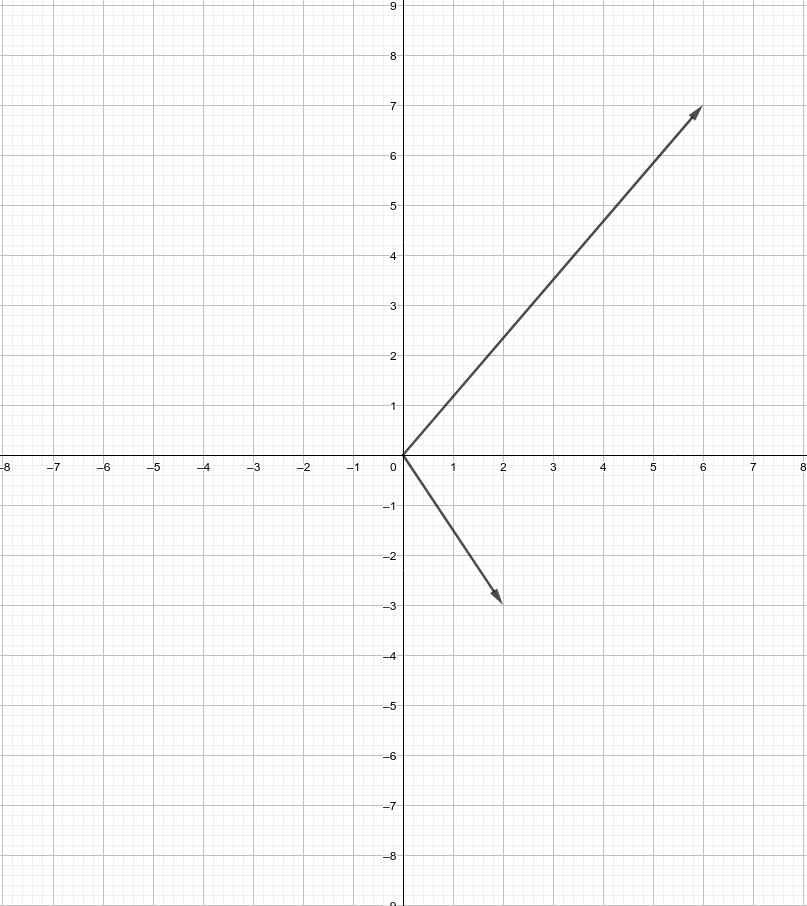
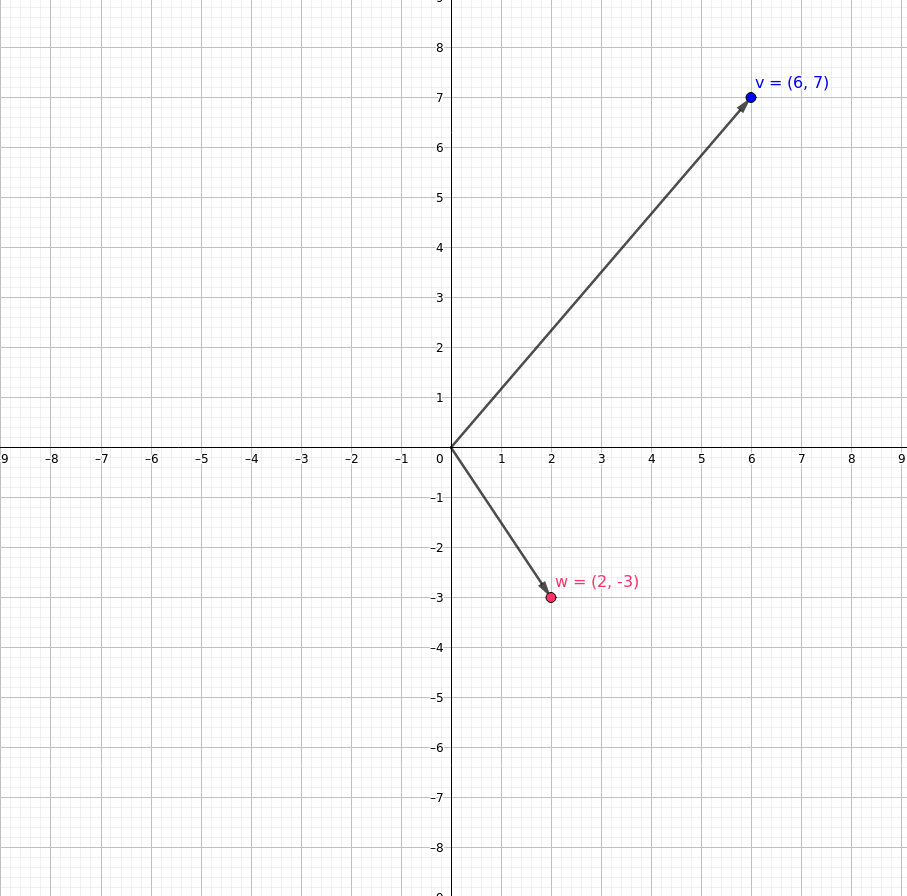
More lesson 1

diff --git a/linear_algebra_class/lesson1_vectors_in_rn/lesson1.tex b/linear_algebra_class/lesson1_vectors_in_rn/lesson1.tex
@@ -68,29 +68,9 @@ or 2-tuples, of real numbers.
 \item The $v_i$ are called the \emph{components} of $v$.
 \item Let $v = (3, -7, 4.1, 0)$.
 \item Then $v\in\R^4$.
-\item The first component of
-$v$ is 3. The fourth component of $v$ is 0.
+\item $v_1 = 3$, $v_2=-7$, $v_3=4.1$, $v_4=0$.
 \end{itemize}
 
-\end{frame}
-
-\begin{frame}{Cartesian-Products}
-
-\begin{itemize}
-\item If $A$ and $B$ are sets then $A\times B$ is called the
-\emph{Cartesian product} or \emph{cross product} of $A$ and $B$. It is
-defined as
-$$A\times B=\setof{(a, b)}{a\in A \text{ and } b\in B}$$
-\item Example: $A=\singleton{0,1}$, $B=\singleton{0, 1, 2}$, then
-what is $A\times B$?
-\item $A\times B = \singleton{(0,0), (0,1), (0,2), (1,0), (1,1), (1,2)}$.
-\item Note: If $A$ and $B$ are finite then $|A\times B| = |A| \cdot |B|$.
-\item Example: $\R\times \R = \R^2$.
-\item Convention: We identify $\R^n \times \R^m$ with $\R^{n+m}$.
-\item $\R^1\times\R^2 = \R^3$.
-\item $\R^3\times\R^3=$ ?
-\item $\R^3\times\R^3=\R^6$.
-\end{itemize}
 \end{frame}
 
 \beamerdefaultoverlayspecification{}
@@ -104,9 +84,9 @@ what is $A\times B$?
 \item<2-> We visualize $\R^2$ as the $x$- $y$- plane
 \item<3-> We visuzlize $\R^3$ as $x$- $y$- $z$- space
 \item<4-> Most people can't vizualize more than 3 dimensions so for $n>=4$
-we can vizualize $\R^2$ or $\R^3$ as approximations or
-analogs of $\R^n$.
-\item<5-> We should always also keep in mind $n$-tuples.
+we mostly think of $\R^n$ as consisting of $n$-tuples of real numbers.
+\item<5-> We can vizualize $\R^2$ or $\R^3$ as \emph{approximations} or
+\emph{analogs}.
 \end{itemize}
 
 \column[T]{5cm}
@@ -132,37 +112,13 @@ analogs of $\R^n$.
 \item<1-> Let $v = (6, 7) \in \R^2$
 \item<2-> We can think of $v$ as a 2-tuple of numbers.
 \item<3-> Or we can think of $v$ as a \emph{point}.
-\item<4-> Or we can think of $v$ is a \emph{vector}.
+\item<4-> Or we can think of $v$ as a \emph{vector}.
 \item<5-> All of these are different representations of the same thing, $v$.
 \end{itemize}
 
 \column[T]{5cm}
-\includegraphics<3>[scale=0.1]{point}
-\includegraphics<4->[scale=0.1]{vector}
-
-\end{columns}
-
-\end{frame}
-
-\begin{frame}{Different notions of vectors}
-
-\begin{columns}
-\column[T]{5cm}
-\begin{itemize}
-\item<1-> In physics a \emph{vector} is ``A quantity having a direction and a magnitude.''
-\item<2-> In some contexts vectors also have a \emph{point of application.}
-\item<3-> Let's refer to this as a \emph{physical vector}.
-\item<4-> A physical vector can be represented in $\R^2$ (or $\R^3$) as
-an arrow with base at some point and tip at some other point
-\end{itemize}
-
-\column[T]{5cm}
-\includegraphics<4->[scale=0.1]{physical-vector}
-
-\begin{itemize}
-\item<5-> That is \emph{not} the kind of vector we will consider in this
-class
-\end{itemize}
+\includegraphics<3>[scale=0.15]{point}
+\includegraphics<4->[scale=0.15]{vector}
 
 \end{columns}
 
@@ -173,16 +129,18 @@ class
 \begin{columns}
 \column[T]{5cm}
 \begin{itemize}
-\item<1-> In this class we define a \emph{vector in $\R^n$} to be
+\item<1-> We define a \emph{vector in $\R^n$} to be
 the same thing as an element of $\R^n$.
 \item<2-> We may chose to visualize it as a point
-\item<3-> Or we may chose to visualize it as an arrow.
-\item<4-> As an arrow we always consider its base to be at the origin.
+\item<3-> Or we may chose to visualize it as an arrow with its base
+at the origin.
+\item<4-> No difference between a vector and its endpoint.
+\item<5-> Or we may chose to think of it as an $n$-tuple of real numbers.
 \end{itemize}
 
 \column[T]{5cm}
-\includegraphics<2>[scale=0.1]{point}
-\includegraphics<3->[scale=0.1]{vector}
+\includegraphics<2>[scale=0.15]{point}
+\includegraphics<3->[scale=0.15]{vector}
 
 \end{columns}
 
@@ -217,10 +175,10 @@ $$v+w=(8, 4)$$
 \end{itemize}
 
 \column[T]{5cm}
-\includegraphics<1>[scale=0.1]{vector}
-\includegraphics<2>[scale=0.1]{two-vectors}
-\includegraphics<3-4>[scale=0.1]{vector-moved}
-\includegraphics<5->[scale=0.1]{vector-sum}
+\includegraphics<1>[scale=0.15]{vector}
+\includegraphics<2>[scale=0.15]{two-vectors}
+\includegraphics<3-4>[scale=0.15]{vector-moved}
+\includegraphics<5->[scale=0.15]{vector-sum}
 
 \end{columns}
 
@@ -236,6 +194,8 @@ $$v+w=(8, 4)$$
 resulting from multiplying each \emph{component} of $v$ by $\alpha$.
 \item If $$v=(v_1, v_2, \cdots , v_n)$$
 then $$\alpha v = (\alpha v_1, \alpha v_2, \cdots, \alpha v_n)$$
+\item In this context the real number $\alpha$ is called a \emph{scalar}
+to emphasize that it is a different kind of thing than the vector $v$.
 \item Example: Suppose $$v = (6, 7)$$ and $\alpha=-3$. Then
 $$\alpha v=(-18, -21)$$
 \end{itemize}
@@ -250,13 +210,16 @@ $$\alpha v=(-18, -21)$$
 \column[T]{5cm}
 \begin{itemize}
 \item<1-> Let $v = (6, 7)$
-\item<2-> Let $\alpha=-3$
-\item<3-> $\alpha v=(-18, -21)$
+\item<2-> Let $\alpha=0.5$
+\item<3-> $\alpha v=(3, 3.5)$
+\item<4-> Let $\beta=-1.5$
+\item<5-> $\beta v=(-9, -10.5)$
 \end{itemize}
 
 \column[T]{5cm}
-\includegraphics<1-2>[scale=0.1]{vector}
-\includegraphics<3>[scale=0.1]{scalar-multiplied}
+\includegraphics<1-2>[scale=0.15]{vector}
+\includegraphics<3-4>[scale=0.15]{vector-times-half}
+\includegraphics<5->[scale=0.15]{two-scalar-multiples}
 
 \end{columns}
 
